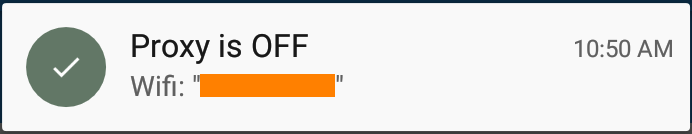
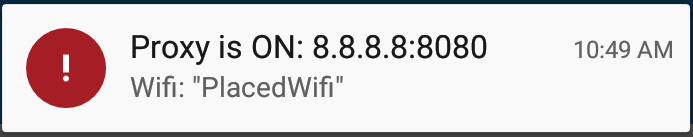
Update image

diff --git a/README.md b/README.md
@@ -1,1 +1,31 @@
-# android-proxy-notifier
+# Android Proxy Notifier
+
+This app shows and maintains an [ongoing notification](https://developer.android.com/reference/android/app/Notification.Builder.html#setOngoing%28boolean%29) that displays your current proxy status. 
+
+## How it works
+
+The app has a `BroadcastReceiver` for wifi and proxy changes, and will keep the notification up-to-date with current proxy information.
+
+## Installation
+
+1. Download the [apk](https://github.com/julo15/android-proxy-notifier/blob/master/release/proxy-notifier-161013.apk?raw=true).
+2. Open the apk on your Android device to install.
+3. Open the `ProxyNotifier` app to start the notification.
+
+![](https://github.com/julo15/android-proxy-notifier/blob/master/images/proxy-off.png?raw=true =500x)
+![](https://github.com/julo15/android-proxy-notifier/blob/master/images/proxy-on.png?raw=true =500x)
+
+## That's pretty much it
+
+After you start the app, you'll see a notification at the top of your notification tray showing whether a proxy is on or off, and what the proxy host/port is (if it's on).
+
+### See status from the status bar
+
+For the extra lazy, you can glance at the icon in your status bar to see if a proxy is on or off.
+- 'exclamation mark' = proxy is ON
+- 'check mark' = proxy is OFF
+
+
+### Enabling or disabling
+
+The notification can be easily shown and hidden by opening the app and toggling the `Notification enabled` switch.
